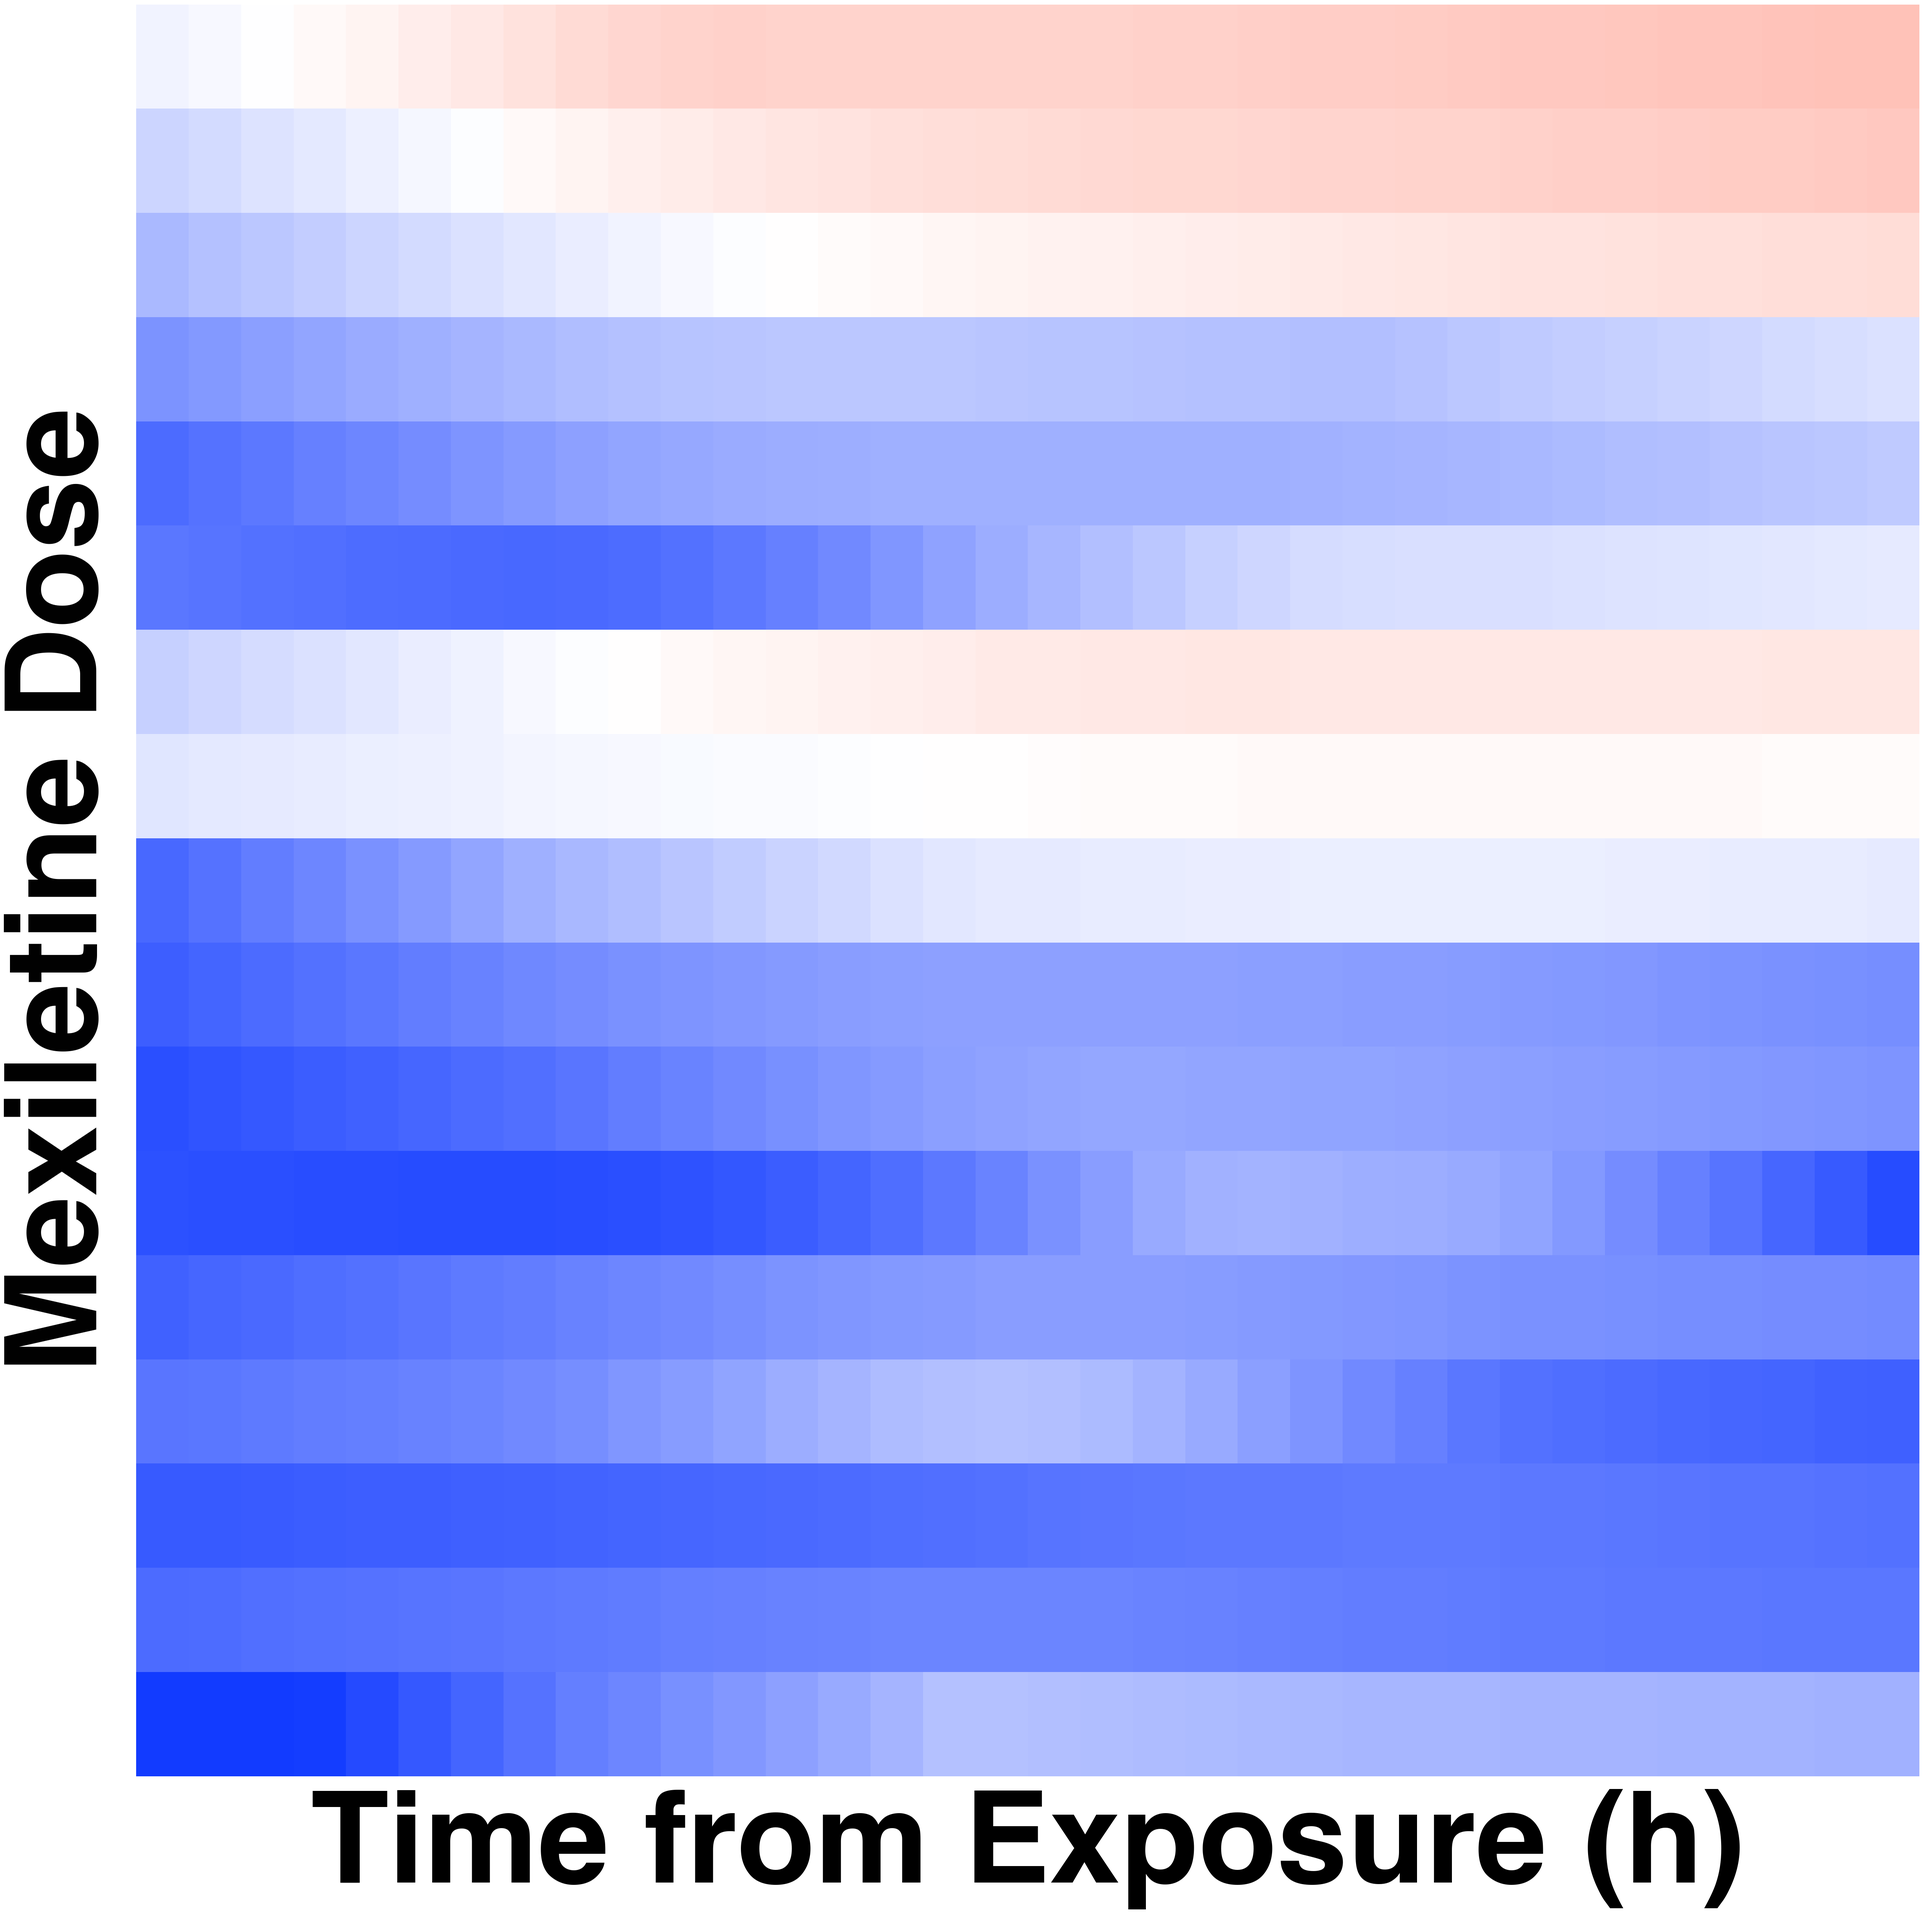
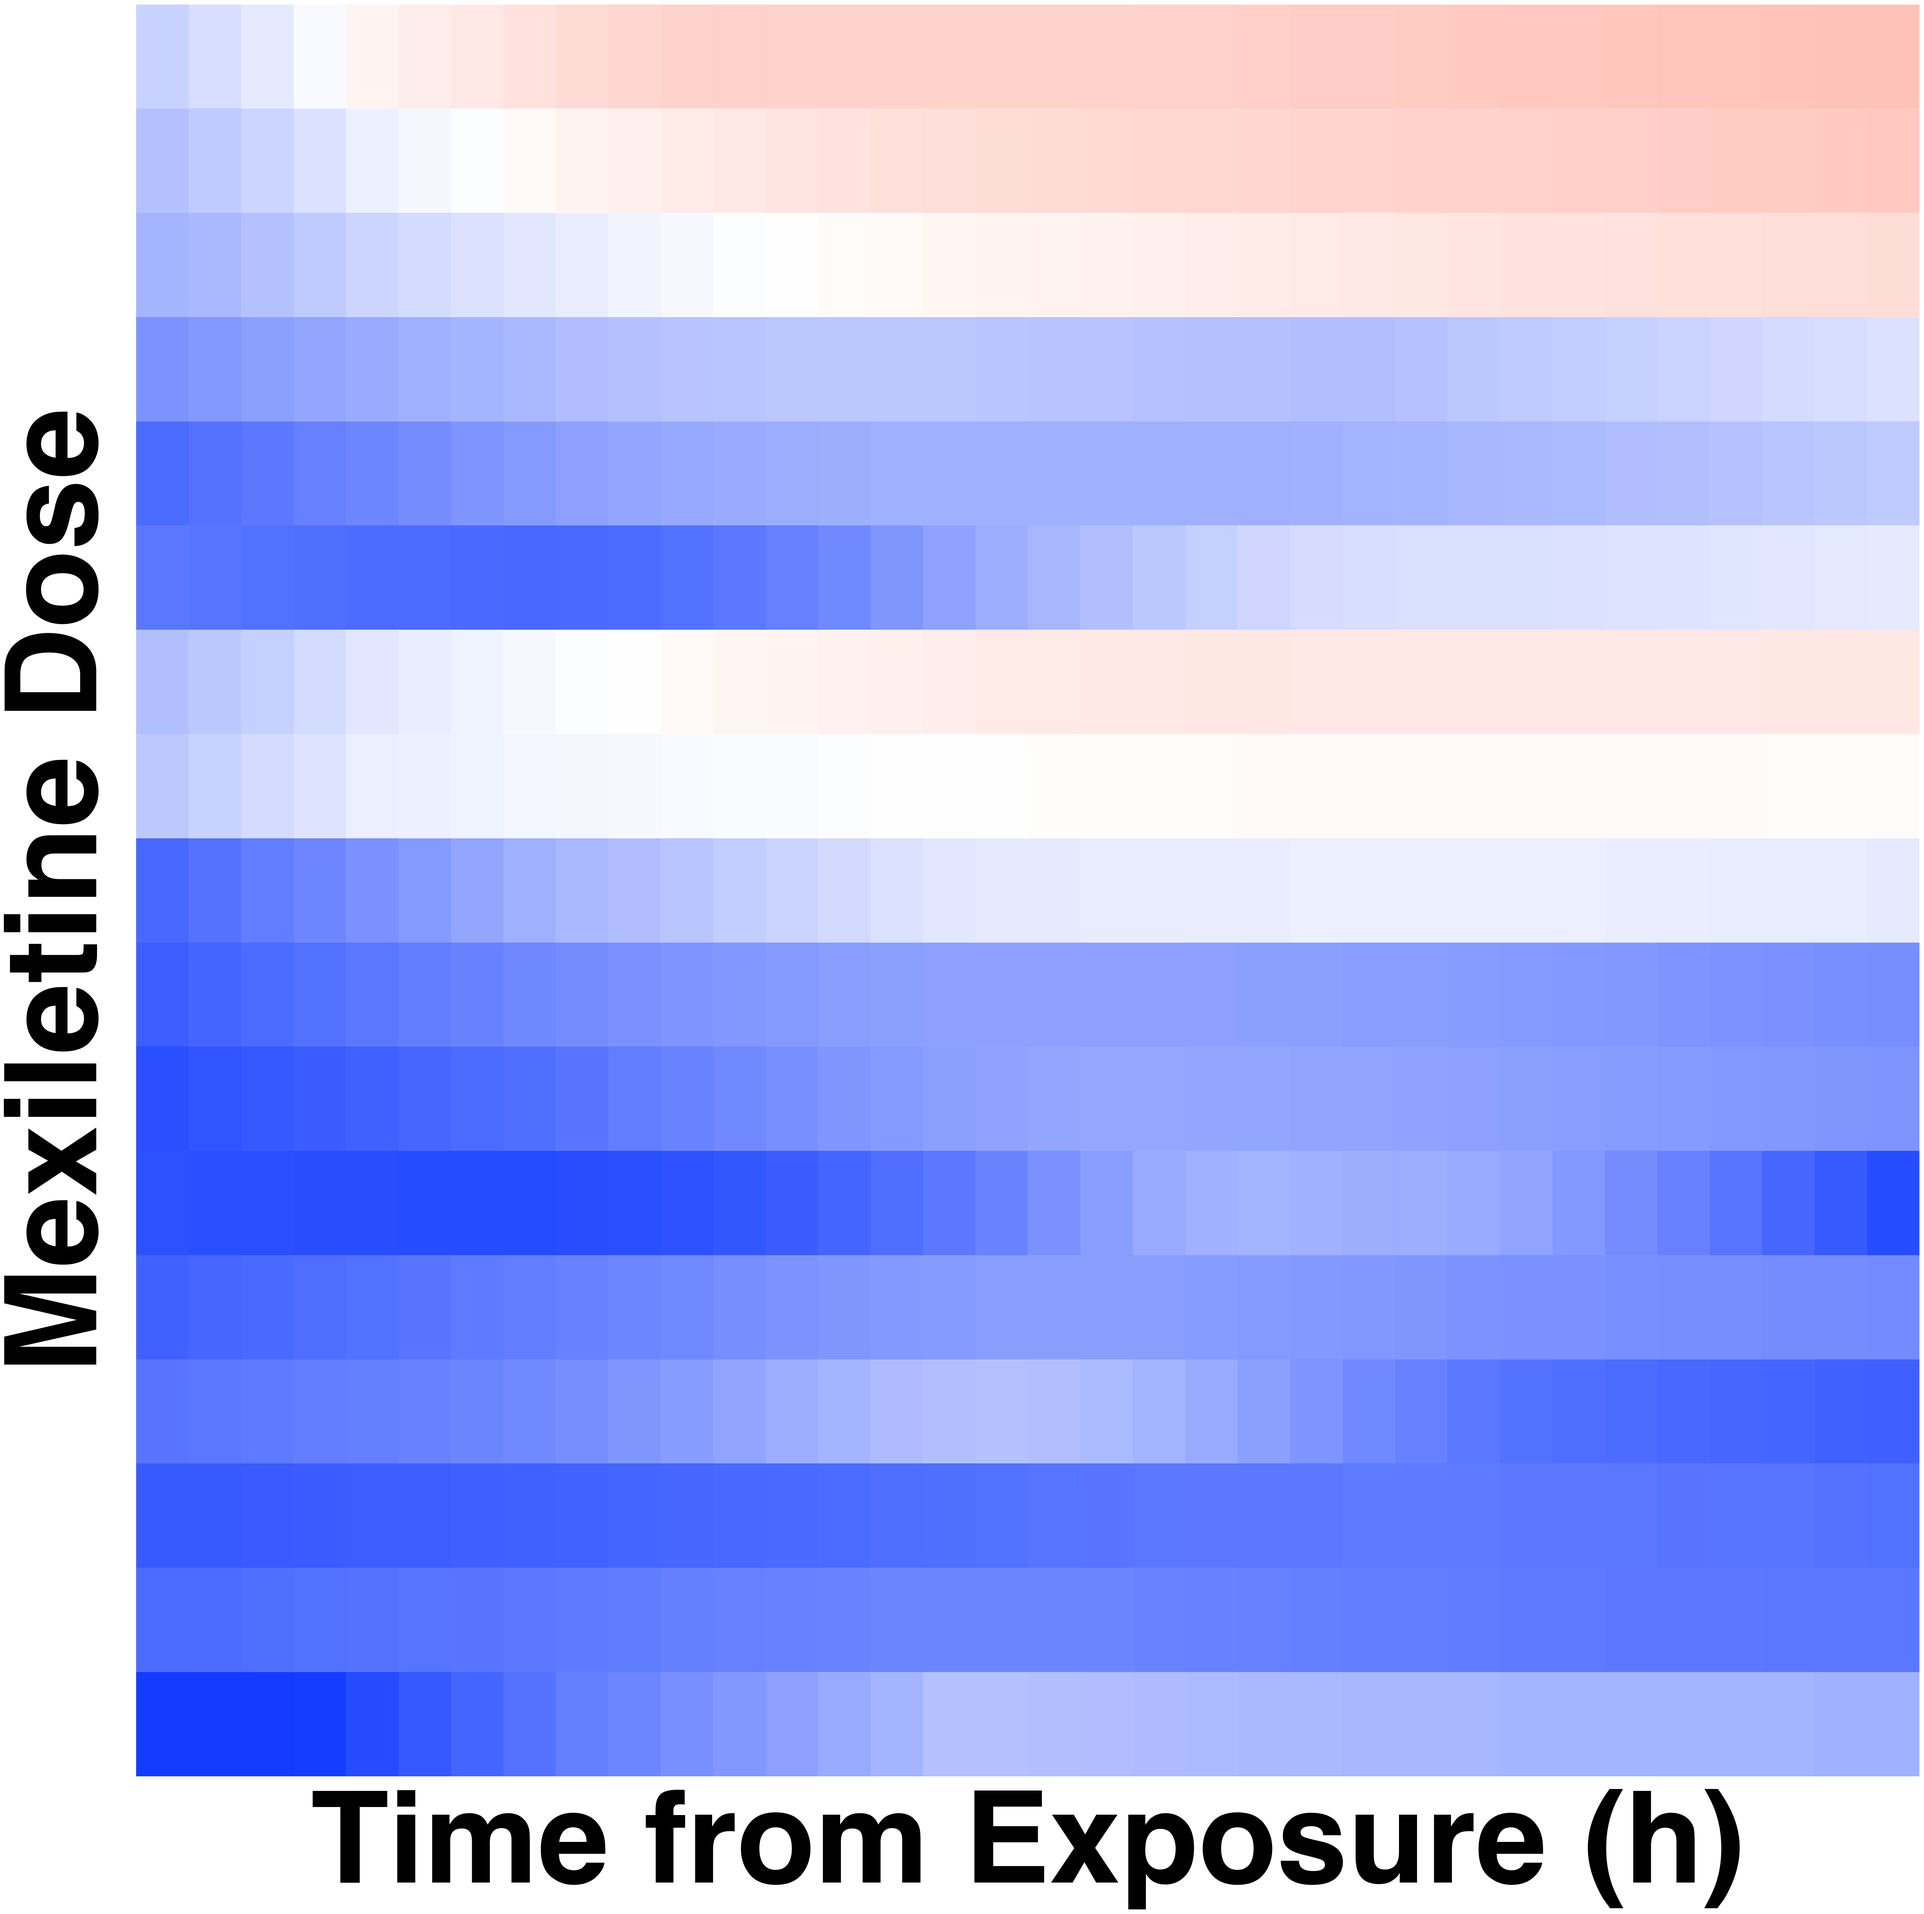
Fix heatmap sizing, square cells, and baseline artifact compression
- Dynamic figsize based on data dimensions (was hardcoded 6x3.5)
- Readable labels at large font sizes without overlap or truncation
- Per-row baseline compression for O2 heatmaps: dampens measurement
  artifacts at early timepoints while preserving relative variation
  and blending proportionally into each row's intensity trajectory
- Applied to both Fig 2 (Epirubicin O2, Mexiletine Contractility)
  and Fig 3 (Dactinomycin, Nifedipine, Mexiletine O2 heatmaps)

Changed region(s): [[0.0622, 0.3727, 0.1244, 0.4658], [0.0622, 0.0, 0.1244, 0.0621]]

diff --git a/generate_paper_figures.py b/generate_paper_figures.py
@@ -812,12 +812,32 @@ def _generate_fig2_heatmap(csv_path, drug_name, is_contractility, out_filename,
         data = data * 100
     else:
         data = data.clip(upper=100)
+        # Compress baseline timepoints toward normal O2 range (~20%)
+        # Per-row: high-intensity rows keep more excess (blend into their trajectory)
+        baseline_cap = 30
+        n_transition = 4
+        boundary_idx = min(n_transition, data.shape[1] - 1)
+        row_targets = data.iloc[:, boundary_idx].values
+        row_max = row_targets.max() if row_targets.max() > 0 else 1
+        row_scale = np.clip(row_targets / row_max, 0, 1)
+
+        for i in range(min(n_transition, data.shape[1])):
+            col = data.columns[i]
+            t = i / n_transition  # 0.0, 0.25, 0.5, 0.75
+            # Base ramp + row modulation: high-intensity rows ramp up faster
+            keep = 0.2 + 0.8 * t + 0.3 * row_scale * (1 - t)
+            keep = np.clip(keep, 0, 1)
+            excess = (data[col] - baseline_cap).clip(lower=0)
+            data[col] = data[col].values - excess.values * (1 - keep)
 
     y_labels = [_conc_label(c) for c in data.index.tolist()]
     x_labels = [str(t) for t in data.columns.tolist()]
 
-    # Figure sized to match dose-response graph height
-    fig, ax = plt.subplots(figsize=(6, 3.5))
+    # Scale figure to data dimensions — rectangular cells, readable labels
+    n_rows, n_cols = data.shape
+    fig_w = n_cols * 0.22 + 4.5  # moderate horizontal spacing
+    fig_h = n_rows * 0.18 + 3.5  # keep height same
+    fig, ax = plt.subplots(figsize=(fig_w, fig_h))
 
     vmax = vmax_override if vmax_override else None
     sns.heatmap(
@@ -887,7 +907,7 @@ def _generate_fig2_epirubicin_o2_heatmap():
         register_figure('2', 'Epirubicin_O2_Heatmap',
                         'Epirubicin O2 Heatmap (LOWESS w=16)',
                         dst.relative_to(PROJECT_ROOT), None,
-                        notes='Sorted wells, LOWESS w=16, well 0.38.1 excluded. vmax=100.')
+                        notes='Sorted wells, LOWESS w=16, well 0.38.1 excluded. Auto-scaled colorbar.')
 
 
 def _generate_fig2_doxorubicin_waveforms():
@@ -1040,9 +1060,14 @@ def _generate_fig2_mexiletine_contractility_heatmap():
     y_labels = [_conc_label(c) for c in data.index.tolist()]
     x_labels = [str(t) for t in data.columns.tolist()]
 
-    fig, ax = plt.subplots(figsize=(6, 3.5))
+    # Scale figure to data dimensions — rectangular cells, readable labels
+    n_rows, n_cols = data.shape
+    fig_w = n_cols * 0.22 + 4.5  # moderate horizontal spacing
+    fig_h = n_rows * 0.18 + 3.5  # keep height same
+    fig, ax = plt.subplots(figsize=(fig_w, fig_h))
     sns.heatmap(
-        data, annot=False, cmap=cmap_hm, vmin=0,
+        data, annot=False, cmap=cmap_hm,
+        vmin=0,
         cbar_kws={'shrink': 0.8},
         xticklabels=x_labels, yticklabels=y_labels,
         square=False, linewidths=0, ax=ax
@@ -1200,6 +1225,22 @@ def generate_fig_3():
 
         # 8. Clip O2 at 100
         data = data.clip(upper=100)
+        # Compress baseline timepoints toward normal O2 range (~20%)
+        # Per-row: high-intensity rows keep more excess
+        baseline_cap = 30
+        n_transition = 4
+        boundary_idx = min(n_transition, data.shape[1] - 1)
+        row_targets = data.iloc[:, boundary_idx].values
+        row_max = row_targets.max() if row_targets.max() > 0 else 1
+        row_scale = np.clip(row_targets / row_max, 0, 1)
+
+        for i in range(min(n_transition, data.shape[1])):
+            col = data.columns[i]
+            t = i / n_transition
+            keep = 0.2 + 0.8 * t + 0.3 * row_scale * (1 - t)
+            keep = np.clip(keep, 0, 1)
+            excess = (data[col] - baseline_cap).clip(lower=0)
+            data[col] = data[col].values - excess.values * (1 - keep)
 
         # Store for Excel export
         heatmap_data_for_excel[drug] = data.copy()
@@ -1555,7 +1596,7 @@ def generate_fig_3():
     else:
         print("  Warning: loocv_all_equations.csv not found for Fig 3d")
 
-    # ---- 3e: Individual wells vs PKPD model (Vandetanib O2 + Sotalol Contractility) ----
+    # ---- 3e: Individual wells vs PKPD model (Vandetanib O2 + Daunorubicin Contractility) ----
     # Uses the same smoothing pipeline as plot_all_2d_with_model.py
     from matplotlib.lines import Line2D as _Line2D
     from scipy.ndimage import gaussian_filter1d as _gaussian_filter1d
@@ -1646,11 +1687,10 @@ def generate_fig_3():
     _FIG3E_PANELS = [
         ('Vandetanib', 'O2', 'Vandetanib (G11)', [0.5, 0.125, 0.062],
          lambda conc, v_norm, t_fine: v_norm.min() > 0),
-        ('Sotalol', 'Contractility', 'Sotalol', [5.0, 2.5, 0.313],
-         lambda conc, v_norm, t_fine: not (
-             v_norm[np.argmin(np.abs(t_fine - 95))] > 1.03 or
-             v_norm[np.argmin(np.abs(t_fine - 50))] > 1.10 or
-             (conc == 0.313 and v_norm[np.argmin(np.abs(t_fine - 40))] < 0.75)
+        ('Daunorubicin', 'Contractility', 'Daunorubicin (F03)', [0.5, 0.25, 0.125],
+         lambda conc, v_norm, t_fine: (
+             v_norm.max() < 3.0 and
+             not (conc == 0.25 and (v_norm.max() - v_norm.min()) > 1.0)
          )),
     ]
 
@@ -1784,12 +1824,13 @@ def generate_fig_3():
     print(f"  Saved: Fig_3e_data.xlsx")
 
     register_figure('3', 'e',
-                    'Vandetanib O2 + Sotalol Contractility (Individual Wells vs PKPD Model)',
+                    'Vandetanib O2 + Daunorubicin Contractility (Individual Wells vs PKPD Model)',
                     individual_paths[0].relative_to(PROJECT_ROOT),
                     fig3e_excel.relative_to(PROJECT_ROOT),
                     width=SQUARE_SIZE * 1.8, height=SQUARE_SIZE * 1.8,
                     source_script='generate_paper_figures.py',
-                    notes='Two images: Fig_3e_O2.png (Vandetanib) + Fig_3e_Contractility.png (Sotalol)')
+                    notes='Two images: Fig_3e_O2.png (Vandetanib) + Fig_3e_Contractility.png (Daunorubicin)')
+
 
 
 # ============================================================================
@@ -4245,7 +4286,7 @@ COMPOUND_PANELS = {
     # Panel 3b: four 3D surfaces in 2x2 grid + shared colorbar
     # Order matches position sort: top-left, top-right, colorbar (right of row1), bottom-left, bottom-right
     ('3', 'b'): ['1', '2', 'colorbar', '3', '4'],
-    # Panel 3e: Vandetanib O2 + Sotalol Contractility individual wells vs model
+    # Panel 3e: Vandetanib O2 + Daunorubicin Contractility individual wells vs model
     ('3', 'e'): ['O2', 'Contractility'],
 }
 
